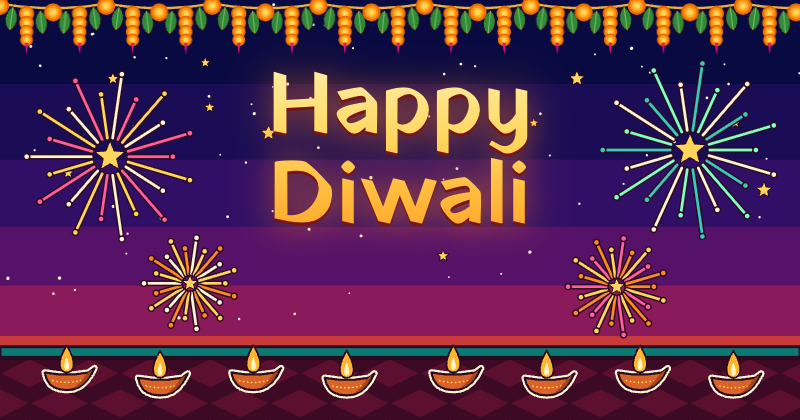
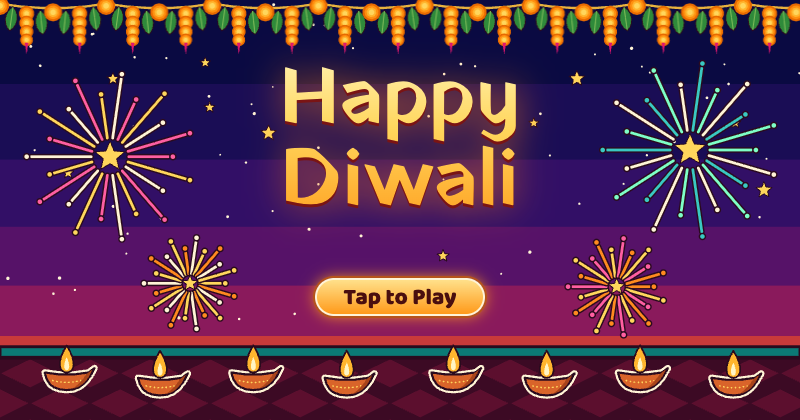
Put a Tap to Play button inside the preview images
WhatsApp often shows only the image or keeps an old title, so the button
now lives in the picture itself. New image addresses force a fresh fetch.

Changed region(s): [[0.3438, 0.1548, 0.6875, 0.5571], [0.375, 0.619, 0.625, 0.7738]]

diff --git a/test.js b/test.js
@@ -37,7 +37,7 @@ import('./api/page.mjs').then(async ({ GET: page }) => {
   assert.ok(!html.includes('<script>'), 'a name cannot inject a script');
   assert.ok(html.includes('<base href="/">'), 'assets still load from a /from/name address');
   const ok = await (await page(new Request('https://s.co/api/page?from=Priya'))).text();
-  assert.ok(ok.includes('content="https://s.co/api/preview?v=2&from=Priya"'), 'preview image carries the name');
+  assert.ok(ok.includes('content="https://s.co/api/preview?v=3&from=Priya"'), 'preview image carries the name');
   assert.ok(ok.includes('from Priya'), 'preview title carries the name');
   console.log('ok');
 });

diff --git a/bn.html b/bn.html
@@ -14,7 +14,7 @@ if (location.hostname.endsWith('github.io')) {
 <meta property="og:title" content="শুভ দীপাবলি — তোর্ষা ও ঋজু · Tap to Play">
 <meta property="og:type" content="website">
 <meta property="og:url" content="https://happy-diwali-jet.vercel.app/bn.html">
-<meta property="og:image" content="https://happy-diwali-jet.vercel.app/preview-bn.jpg?v=7">
+<meta property="og:image" content="https://happy-diwali-jet.vercel.app/preview-bn.jpg?v=8">
 <meta property="og:image:width" content="1200">
 <meta property="og:image:height" content="630">
 <meta name="twitter:card" content="summary_large_image">

diff --git a/index.html b/index.html
@@ -14,7 +14,7 @@ if (location.hostname.endsWith('github.io')) {
 <meta property="og:title" content="Happy Diwali · Tap to Play">
 <meta property="og:type" content="website">
 <meta property="og:url" content="https://happy-diwali-jet.vercel.app/">
-<meta property="og:image" content="https://happy-diwali-jet.vercel.app/preview-en.jpg?v=6">
+<meta property="og:image" content="https://happy-diwali-jet.vercel.app/preview-en.jpg?v=8">
 <meta property="og:image:width" content="1200">
 <meta property="og:image:height" content="630">
 <meta name="twitter:card" content="summary_large_image">
